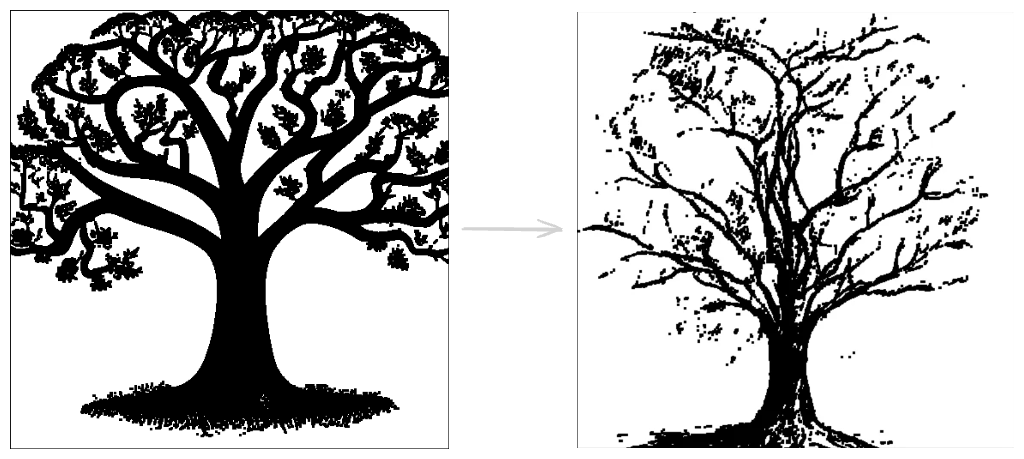
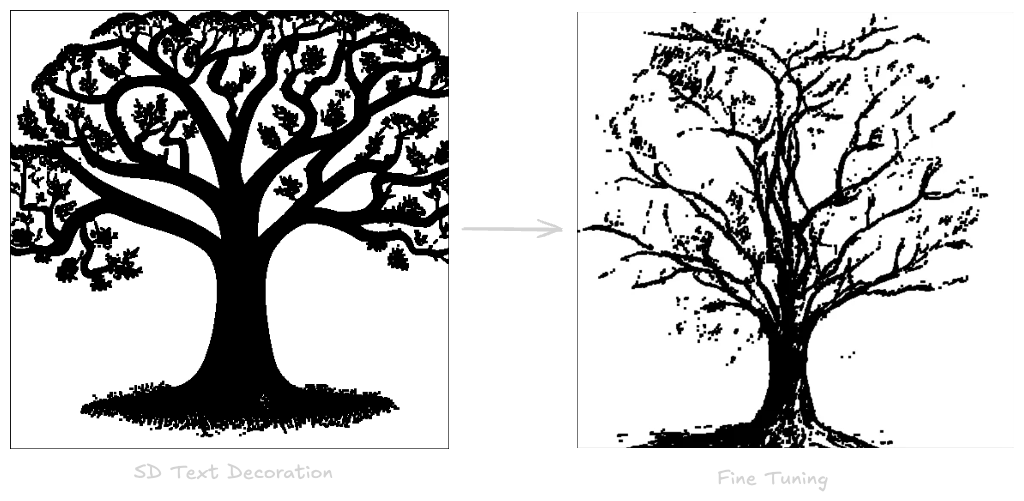
fixing readme image and docs.

diff --git a/README.md b/README.md
@@ -7,9 +7,9 @@ Generate clean, print-ready stencils using AI or traditional computer vision.
 ###  **Stencil.py** - AI-Powered Generation
 Generate stencils from text descriptions using Stable Diffusion. Now supports **fine-tuned models** trained specifically on sketch-style images!
 
-***Test using "a Tree with spreading branches" prompt***
-![Showing comparison of models](./StencilAI/Source%20Image%20Sample/Tree_SD_vs_fineTuned.png)
-
+>  ***Test using "a Tree with spreading branches" prompt***
+>  - ***text decoration*** vs ***fine-tuning***
+>  ![Showing comparison of models](./StencilAI/Source%20Image%20Sample/Tree_SD_vs_fineTuned.png )
 
 
 ---
